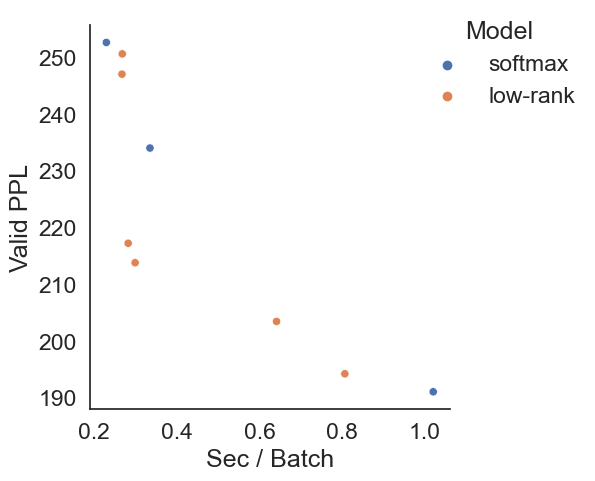
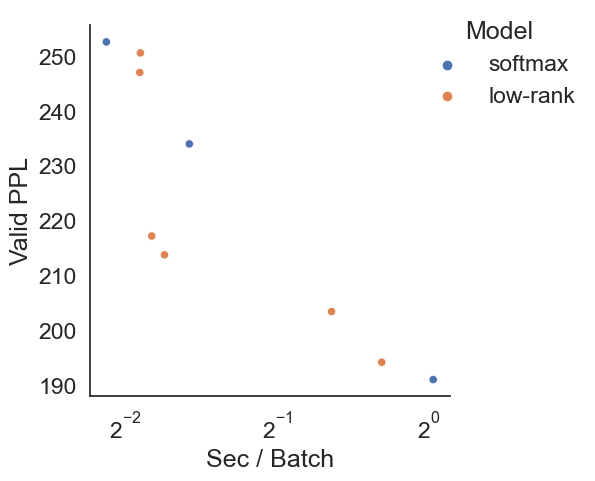
.

diff --git a/speed_accuracy_frontier.py b/speed_accuracy_frontier.py
@@ -20,44 +20,65 @@ acc_data = np.array([
     (147, 146, 156, 180, 189,), # 8:1
 ])
 
-speed_data = np.array([
-    #16k   8k    4k   2k 1k
-    (3415, 1027, 377, 254, 250,), # softmax
-    (3992, 1139, 398, 290, 216,), # 2:1
-    (2197,  692, 304, 234, 282,), # 4:1 # rerun 1k
-    (1284,  462, 259, 226, 276,), # 8:1 # rerun 1k
+# 16k has .1 feature dropout...rerun all with feature dropout?
+# RERUNNING 8k with feature dropout.
+# use max perf for softmax hmm 16k?
+acc_data = np.array([
+    #16k  8k   4k   2k 1k 
+    (144, 152, 155, 163, 175,), # softmax
+    (141, 149, 154, 159, 168,), # 2:1
+    (139, 153, 156, 169, 178,), # 4:1
+    (141, 161, 163, 180, 189,), # 8:1
 ])
+
 speed_data = np.array([
     #16k   8k    4k   2k 1k
     (3415, 1027, 377, 254, 250,), # softmax
     (3992, 1139, 398, 290, 216,), # 2:1
     (2197,  692, 304, 234, 282,), # 4:1 # rerun 1k
     (1284,  462, 259, 226, 276,), # 8:1 # rerun 1k
+]) / 6519
+
+state_data = np.array([
+    (2**14, 2**13, 2**12, 2**11, 2**10),
+    (2**14, 2**13, 2**12, 2**11, 2**10),
+    (2**14, 2**13, 2**12, 2**11, 2**10),
+    (2**14, 2**13, 2**12, 2**11, 2**10),
+])
+
+ratio_data = np.array([
+    (1,1,1,1,1),
+    (2,2,2,2,2),
+    (4,4,4,4,4),
+    (8,8,8,8,8),
 ])
 
 softmax_data = np.vstack((
     speed_data[0],
     acc_data[0],
     np.zeros(5),
-    #["softmax"] * 5,
+    state_data[0],
+    ratio_data[0],
 ))
 lhmm_data = np.vstack((
     speed_data[1:].reshape(-1),
     acc_data[1:].reshape(-1),
     np.ones(15),
     #["low-rank"] * 15,
+    state_data[1:].reshape(-1),
+    ratio_data[1:].reshape(-1),
 ))
 data = np.hstack((softmax_data, lhmm_data))
 
 df = pd.DataFrame(
     data.T,
-    columns = ["speed", "accuracy", "model"],
+    columns = ["speed", "accuracy", "model", "states", "ratio"],
 )
 
 g = sns.relplot(
     data=df, x="speed", y="accuracy", hue="model", kind="scatter",
 )
-g.set_axis_labels("log(Sec / Epoch)", "Valid PPL")
+g.set_axis_labels("Sec / Batch", "Valid PPL")
 g.legend.set_title("Model")
 # replace labels
 new_labels = ['softmax', 'low-rank']
@@ -77,23 +98,23 @@ g.savefig("lhmm-speed-accuracy.png")
 
 # PCFG
 softmax_data = np.array([
-    (1/4.37, 252.60, 0),
-    (1/2.99, 234.01, 0),
-    (1/.98,  191.08, 0),
+    (1/4.37, 252.60, 0, 90, 90),
+    (1/2.99, 234.01, 0, 180, 180),
+    (1/.98,  191.08, 0, 300, 300),
 ])
 lhmm_data = np.array((
-    (1/3.75, 247.02, 1),
-    (1/3.74, 250.59, 1),
-    (1/3.55, 217.24, 1), 
-    (1/3.35, 213.81, 1),
-    (1/1.56, 203.47, 1),
-    (1/1.24, 194.25, 1),
+    (1/3.75, 247.02, 1, 90, 8),
+    (1/3.74, 250.59, 1, 90, 16),
+    (1/3.55, 217.24, 1, 180, 16), 
+    (1/3.35, 213.81, 1, 180, 32),
+    (1/1.56, 203.47, 1, 300, 32),
+    (1/1.24, 194.25, 1, 300, 64),
 ))
 data = np.vstack((softmax_data, lhmm_data))
 
 df = pd.DataFrame(
     data,
-    columns = ["speed", "accuracy", "model"],
+    columns = ["speed", "accuracy", "model", "states", "rank"],
 )
 
 g = sns.relplot(
@@ -112,28 +133,28 @@ sns.move_legend(g,
 for t, l in zip(g.legend.texts, new_labels):
     t.set_text(l)
 ax = g.axes[0][0]
-#ax.set_xscale("log", base=2)
+ax.set_xscale("log", base=2)
 #ax.set_yscale("log", base=2)
 g.tight_layout()
 g.savefig("pcfg-speed-accuracy.png")
 
 # HSMM
 softmax_data = np.array([
-    (1/1.28, 1.428, 0),
-    (1/.45, 1.427, 0),
-    (1/.13,  1.426, 0),
+    (1/1.28, 1.428, 0, 2**6, 0),
+    (1/.45, 1.427, 0, 2**7, 0),
+    (1/.13,  1.426, 0, 2**8, 0),
 ])
 lhmm_data = np.array((
-    (1/.24, 1.427, 1),
-    (1/.20, 1.426, 1),
-    (1/.18, 1.424, 1),
-    (1/.10, 1.423, 1),
+    (1/.24, 1.427, 1, 2**7, 2**7),
+    (1/.20, 1.426, 1, 2**8, 2**6),
+    (1/.18, 1.424, 1, 2**9, 2**5),
+    (1/.10, 1.423, 1, 2**10, 2**4),
 ))
 data = np.vstack((softmax_data, lhmm_data))
 
 df = pd.DataFrame(
     data,
-    columns = ["speed", "accuracy", "model"],
+    columns = ["speed", "accuracy", "model", "states", "rank"],
 )
 
 g = sns.relplot(
@@ -152,8 +173,29 @@ sns.move_legend(g,
 for t, l in zip(g.legend.texts, new_labels):
     t.set_text(l)
 ax = g.axes[0][0]
-#ax.set_xscale("log", base=2)
+ax.set_xscale("log", base=2)
 #ax.set_yscale("log", base=2)
 g.tight_layout()
 g.savefig("hsmm-speed-accuracy.png")
+
+g = sns.relplot(
+    data=df, x="states", y="accuracy", hue="model", kind="line",
+    linewidth=3,
+)
+g.set_axis_labels("Num states", "Valid NLL (e5)")
+g.legend.set_title("Model")
+# replace labels
+new_labels = ['softmax', 'low-rank']
+sns.move_legend(g,
+    "upper right",
+    #"lower center",
+    #bbox_to_anchor=(.5, 1), ncol=2, title=None, frameon=False,
+)
+for t, l in zip(g.legend.texts, new_labels):
+    t.set_text(l)
+ax = g.axes[0][0]
+ax.set_xscale("log", base=2)
+#ax.set_yscale("log", base=2)
+g.tight_layout()
+g.savefig("hsmm-accuracy.png")
 

diff --git a/large_lhmm_states_feats.py b/large_lhmm_states_feats.py
@@ -65,7 +65,7 @@ data = np.array([
     (3992, 1139, 398, 290, 216,), # 2:1
     (2197,  692, 304, 234, 282,), # 4:1 # rerun 1k
     (1284,  462, 259, 226, 276,), # 8:1 # rerun 1k
-])
+]) / 6519
 
 df = pd.DataFrame(
     data.T,
@@ -74,7 +74,16 @@ df = pd.DataFrame(
 )
 
 g = sns.relplot(data=df, kind="line", linewidth=3, aspect=1.3)
-g.set_axis_labels("Number of states", "Secs / Epoch")
+g.set_axis_labels("Number of states", "Secs / Batch")
+g.legend.set_title("State:Rank")
+ax = g.axes[0][0]
+ax.set_yscale("log", base=2)
+ax.set_xscale("log", base=2)
+g.tight_layout()
+g.savefig("lhmm-states-features-speed-log.png")
+
+g = sns.relplot(data=df, kind="line", linewidth=3, aspect=1.3)
+g.set_axis_labels("Number of states", "Secs / Batch")
 g.legend.set_title("State:Rank")
 ax = g.axes[0][0]
 ax.set_xscale("log", base=2)
